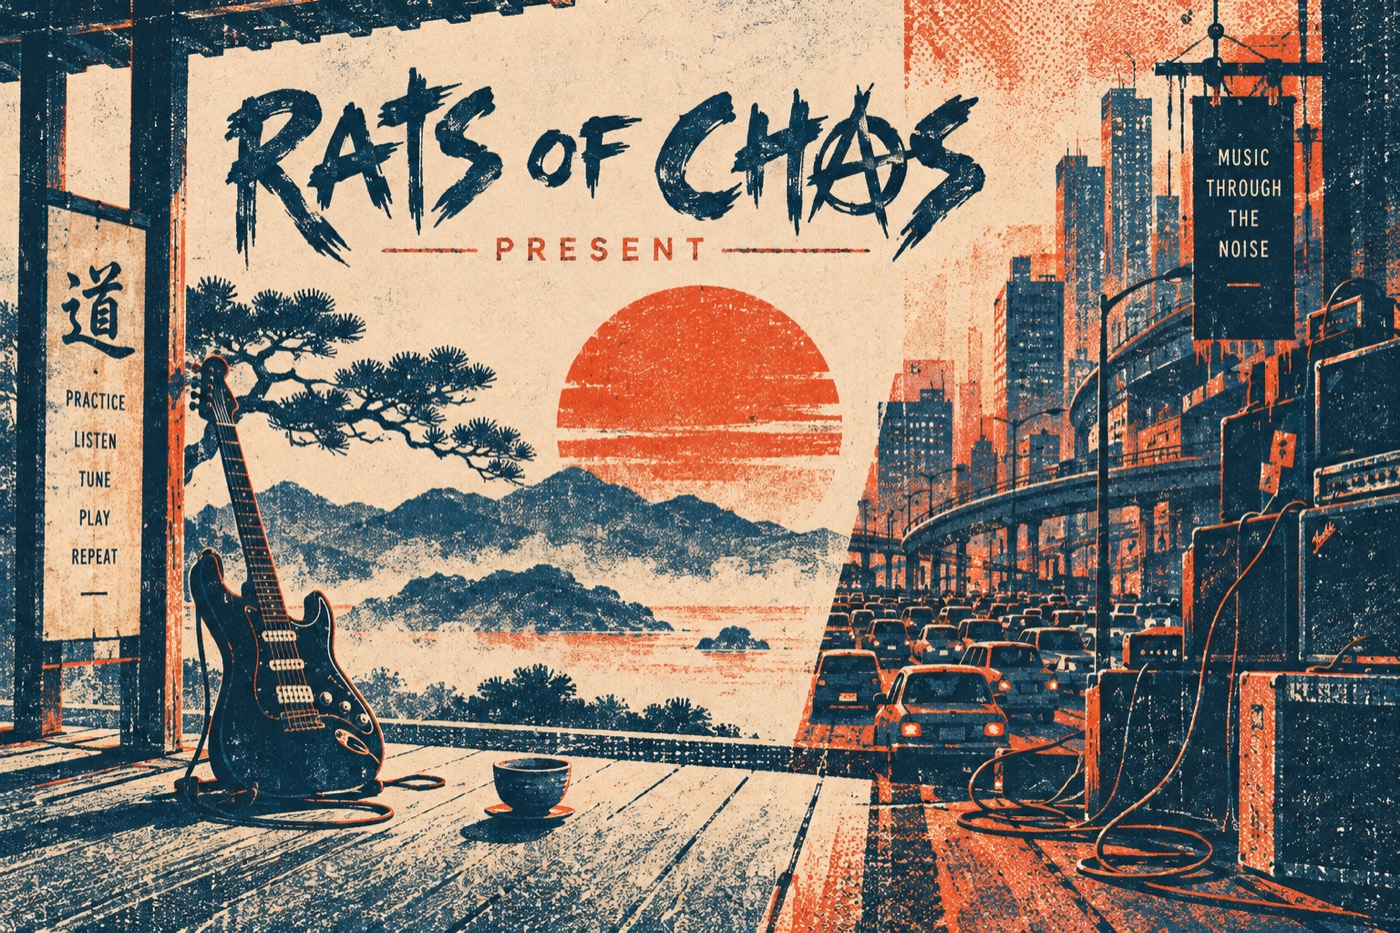
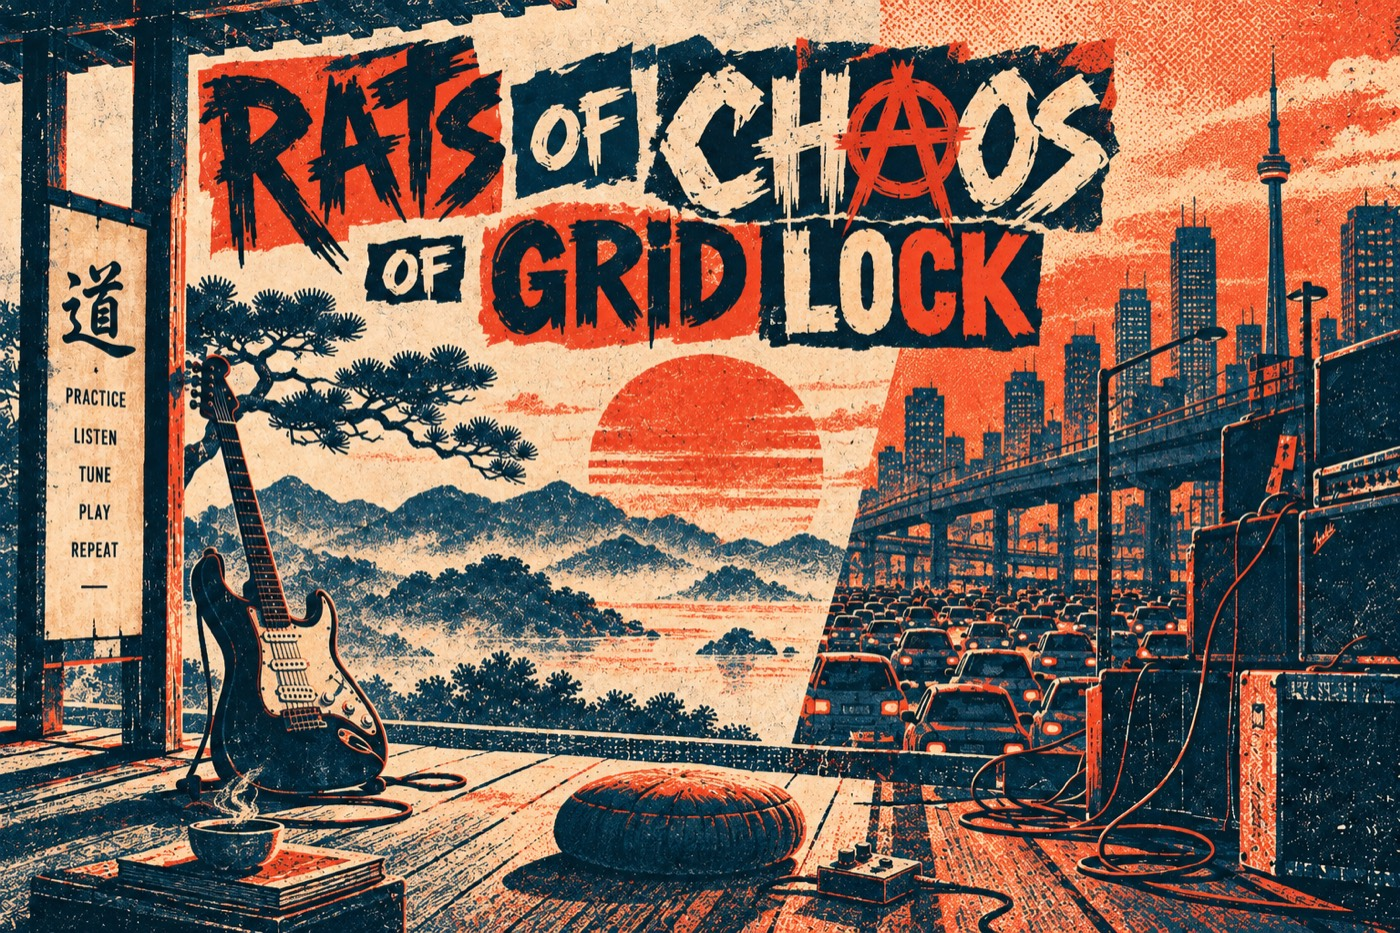
Update the README poster to Rats of Chaos of Gridlock

diff --git a/README.md b/README.md
@@ -1,6 +1,6 @@
 # Zen Guitar journey
 
-![Rats of Chaos present: Music Through the Noise. A two-ink poster: a guitar and a teacup on a quiet porch facing pine, mountains and a red sun on the left; a city, traffic and stacked amplifiers on the right. Practice, listen, tune, play, repeat.](docs/images/rats-of-chaos-poster.jpg)
+![Rats of Chaos of Gridlock. A two-ink poster: on the left a quiet porch with a guitar, a cushion and a steaming cup of tea, facing pine, mountains and a red sun; on the right the CN Tower, a highway of traffic and stacked amplifiers. Practice, listen, tune, play, repeat.](docs/images/rats-of-chaos-poster.jpg)
 
 
 **Live demo:** https://brucehoppe.github.io/zen-guitar/ (coming once the site is built)
